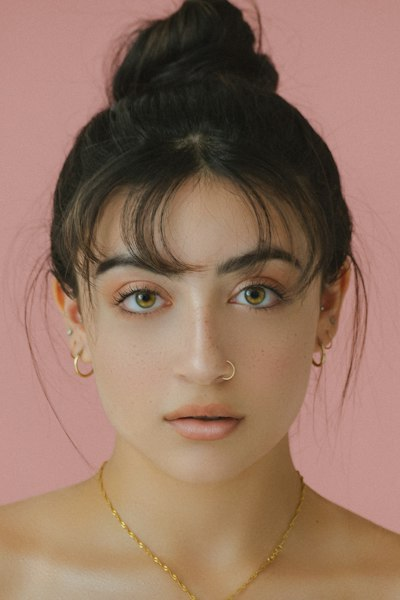
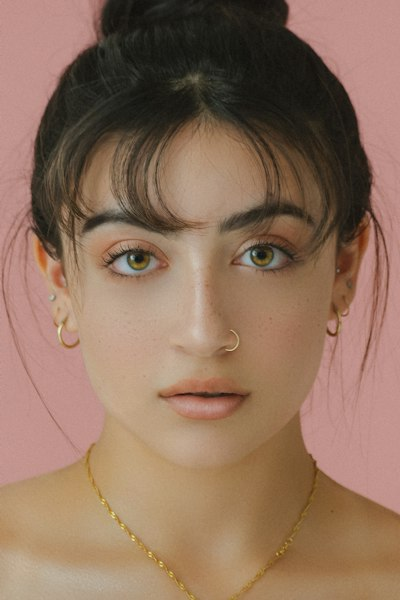
Fix screen alignment, profile header size, and portrait face cropping
- Remove justifyContent:center from PlayerSetupScreen so all screens
  start top-aligned consistently (no more vertical jump between screens)
- Profile name font 19→28px, archetype 9→11px, more padding — visually
  dominant name/archetype overlay on profile card
- Drop color look entirely: maxLook 2→1 (doll ↔ B&W only), remove
  color photo layer and COLOR label, dots reduced to 2
- Re-download all 9 portraits with Unsplash facearea crop (facepad=3)
  so faces are centered in each image
- objectPosition: top center → center 35% to show centered face region

diff --git a/src/components/TheCatchGame.jsx b/src/components/TheCatchGame.jsx
@@ -544,7 +544,7 @@ function PlayerSetupScreen({ state, dispatch }) {
   if (state.mode === 'single') {
     const sl = slots[0]
     return (
-      <div style={{ flex: 1, overflowY: 'auto', background: C.bg, display: 'flex', flexDirection: 'column', justifyContent: 'center', padding: '32px 20px', boxSizing: 'border-box' }}>
+      <div style={{ flex: 1, overflowY: 'auto', background: C.bg, display: 'flex', flexDirection: 'column', padding: '32px 20px', boxSizing: 'border-box' }}>
         <div style={{ maxWidth: 400, margin: '0 auto', width: '100%' }}>
           {/* Header */}
           <div style={{ marginBottom: 28 }}>
@@ -996,7 +996,7 @@ function CustomTraitsScreen({ state, dispatch }) {
 function ProfileCard({ profile, goldTheme, lookUnlocked = false }) {
   const photo    = profile.doll ? DOLL_PHOTO[profile.doll] : (profile.photo ?? null)
   const hasPhoto = !!photo
-  const maxLook  = (lookUnlocked && hasPhoto) ? 2 : 0
+  const maxLook  = (lookUnlocked && hasPhoto) ? 1 : 0
   const [lookIdx, setLookIdx] = useState(0)
   const touchStartX = useRef(null)
 
@@ -1032,12 +1032,7 @@ function ProfileCard({ profile, goldTheme, lookUnlocked = false }) {
 
         {/* Look 1: B&W photo — always mounted when photo exists, fades in/out */}
         {hasPhoto && (
-          <img src={photo} alt="" style={{ position: 'absolute', inset: 0, width: '100%', height: '100%', objectFit: 'cover', objectPosition: 'center 15%', filter: 'grayscale(1) contrast(1.1) brightness(0.9)', display: 'block', opacity: lookIdx === 1 ? 1 : 0, transition: 'opacity 0.2s ease', pointerEvents: 'none' }} />
-        )}
-
-        {/* Look 2: color photo — always mounted when photo exists, fades in/out */}
-        {hasPhoto && (
-          <img src={photo} alt="" style={{ position: 'absolute', inset: 0, width: '100%', height: '100%', objectFit: 'cover', objectPosition: 'center 15%', display: 'block', opacity: lookIdx === 2 ? 1 : 0, transition: 'opacity 0.2s ease', pointerEvents: 'none' }} />
+          <img src={photo} alt="" style={{ position: 'absolute', inset: 0, width: '100%', height: '100%', objectFit: 'cover', objectPosition: 'center 35%', filter: 'grayscale(1) contrast(1.1) brightness(0.9)', display: 'block', opacity: lookIdx === 1 ? 1 : 0, transition: 'opacity 0.2s ease', pointerEvents: 'none' }} />
         )}
 
         {/* Left tap zone — go back one look */}
@@ -1054,23 +1049,23 @@ function ProfileCard({ profile, goldTheme, lookUnlocked = false }) {
         {/* Dot indicators at top */}
         {lookUnlocked && hasPhoto && (
           <div style={{ position: 'absolute', top: 8, left: 0, right: 0, display: 'flex', justifyContent: 'center', gap: 5, zIndex: 5, pointerEvents: 'none' }}>
-            {[0,1,2].map(i => (
+            {[0,1].map(i => (
               <div key={i} style={{ width: i === lookIdx ? 18 : 6, height: 6, borderRadius: 3, background: i === lookIdx ? '#fff' : 'rgba(255,255,255,0.35)', transition: 'width 0.2s ease', boxShadow: '0 1px 3px rgba(0,0,0,0.5)' }} />
             ))}
           </div>
         )}
 
-        {/* Look label */}
-        {lookUnlocked && hasPhoto && lookIdx > 0 && (
+        {/* B&W label */}
+        {lookUnlocked && hasPhoto && lookIdx === 1 && (
           <div style={{ position: 'absolute', top: 8, right: 10, zIndex: 6, fontFamily: WS, fontWeight: 700, fontSize: 8, color: 'rgba(255,255,255,0.75)', letterSpacing: '0.14em', background: 'rgba(0,0,0,0.45)', padding: '2px 7px', borderRadius: 2 }}>
-            {lookIdx === 1 ? 'B&W' : 'COLOR'}
+            B&W
           </div>
         )}
 
         {/* Name gradient overlay */}
-        <div style={{ position: 'absolute', bottom: 0, left: 0, right: 0, padding: '40px 12px 9px', background: gradOverlay, zIndex: 3, pointerEvents: 'none' }}>
-          <div style={{ fontFamily: ANTON, color: C.cream, fontSize: 19, lineHeight: 1 }}>{profile.name.toUpperCase()}, {profile.age}</div>
-          {profile.archetype && <div style={{ fontFamily: WS, fontWeight: 700, color: C.gold, fontSize: 9, letterSpacing: '0.2em', marginTop: 2 }}>{profile.archetype}</div>}
+        <div style={{ position: 'absolute', bottom: 0, left: 0, right: 0, padding: '52px 14px 12px', background: gradOverlay, zIndex: 3, pointerEvents: 'none' }}>
+          <div style={{ fontFamily: ANTON, color: C.cream, fontSize: 28, lineHeight: 1 }}>{profile.name.toUpperCase()}, {profile.age}</div>
+          {profile.archetype && <div style={{ fontFamily: WS, fontWeight: 700, color: C.gold, fontSize: 11, letterSpacing: '0.22em', marginTop: 4 }}>{profile.archetype.toUpperCase()}</div>}
         </div>
       </div>
     </div>
